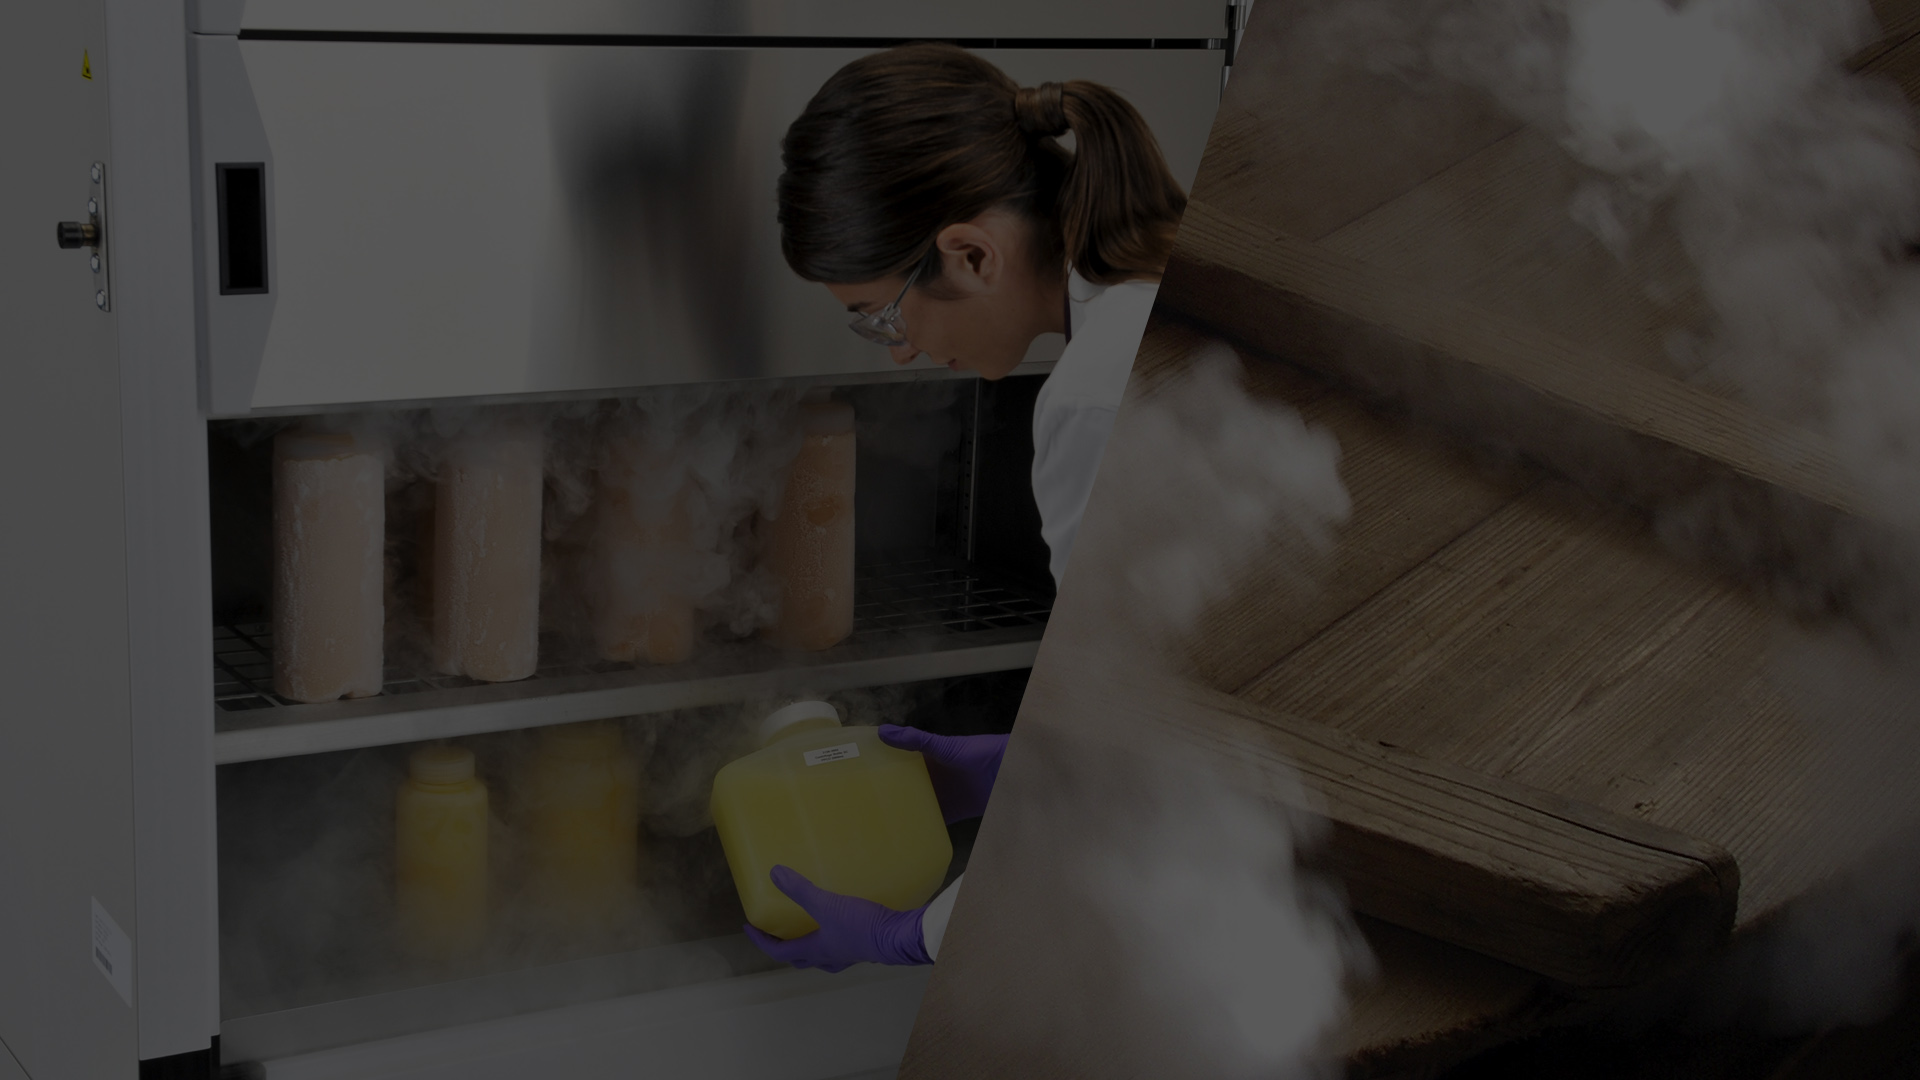
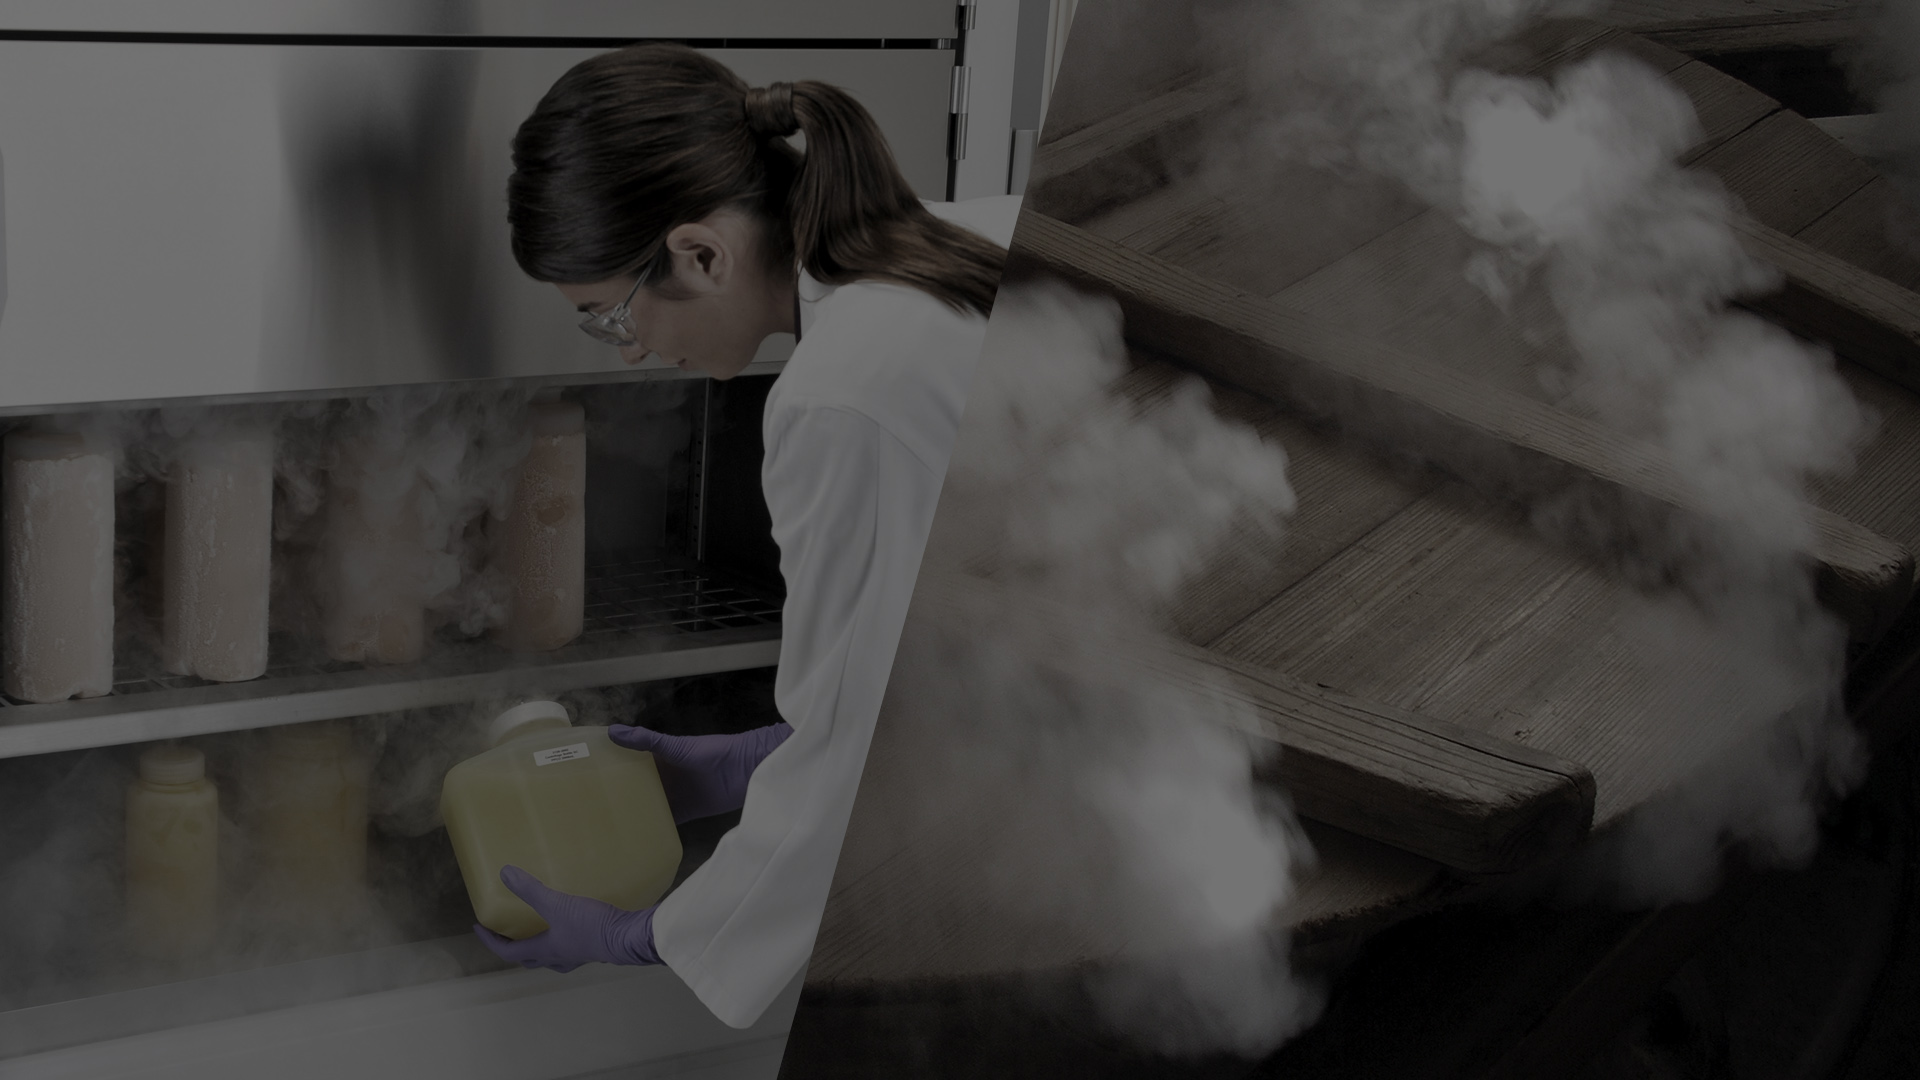
Alterando as imagens e alterando call-to-action

diff --git a/index.html b/index.html
@@ -147,9 +147,9 @@
 								<div class="hero-content row centered">
 									<div class="col-lg-12">
 
-										<h1 class="all-caps text-shadow-medium" data-sr="enter top over 1s and move 50px wait 0.3s">Pare de perder produtos por motivos de temperatura!</h1>
+										<h1 class="all-caps text-shadow-medium" data-sr="enter top over 1s and move 50px wait 0.3s">Reduza e evite a perda de produtos por motivos de temperatura!</h1>
 
-										<p class="lead all-caps text-shadow-small" data-sr="enter top over 1s and move 50px wait 0.4s">Reduza e evite as perdas de seus produtos conversando <br>gratuitamente com um de nossos especialistas</p>
+										<p class="lead all-caps text-shadow-small" data-sr="enter top over 1s and move 50px wait 0.4s">Converse gratuitamente com um de nossos especialistas</p>
 
 										<!-- BEGIN Hero Subscribe -->
 										<div class="row">
@@ -311,8 +311,8 @@
 
 											<div class="col-lg-12 centered">
 
-												<h4>PARE DE PERDER PRODUTOS POR MOTIVOS DE TEMPERATURA!</h4>
-												<p class="sub-lead">Deixe seu e-mail e converse gratuitamente com um de nossos especialistas</p>
+												<h4>REDUZA E EVITE A PERDA DE PRODUTOS POR MOTIVOS DE TEMPERATURA!</h4>
+												<p class="sub-lead">Converse gratuitamente com um de nossos especialistas</p>
 
 												<div class="clearfix"></div>
 												<form id="footer-subscribe" class="the-subscribe-form">
@@ -514,9 +514,9 @@
 
 								<div class="subscribe-section-content col-lg-5 col-md-5 col-sm-7">
 
-									<h4>PARE DE PERDER PRODUTOS POR MOTIVOS DE TEMPERATURA!</h4>
+									<h4>REDUZA E EVITE PERDA DE PRODUTOS POR MOTIVOS DE TEMPERATURA!</h4>
 
-									<p>Deixe seu e-mail e converse gratuitamente com um de nossos especialistas</p>
+									<p>converse gratuitamente com um de nossos especialistas</p>
 
 									<form id="footer-subscribe" class="the-subscribe-form">
 

diff --git a/css/style.css b/css/style.css
@@ -381,7 +381,7 @@ section.breaking {
 }
 
 .two-blocks-col {
-	padding: 61px 80px 0;
+	padding: 64px 61px 0;
 }
 
 .no-padding {
@@ -1802,7 +1802,7 @@ a.menu-toggle span {
 	-webkit-border-radius: 8px 0 0 8px;
 	-moz-border-radius: 8px 0 0 8px;
 	border-radius: 8px 0 0 8px;
-	background-color: rgba(255,255,255,.25);
+	background-color: rgba(255,255,255,.15);
 	background-clip: padding-box;
 	box-shadow: none;
 	color: #fff;
